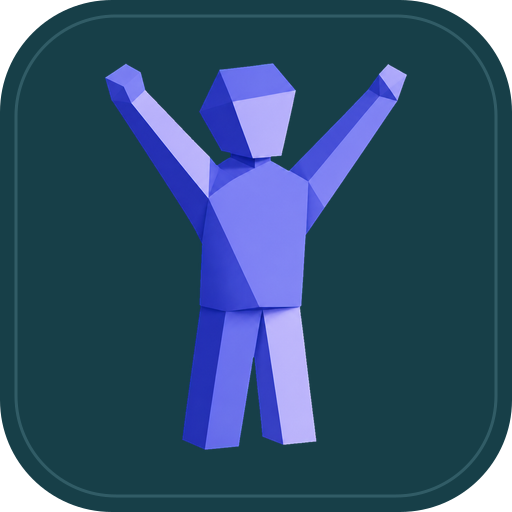
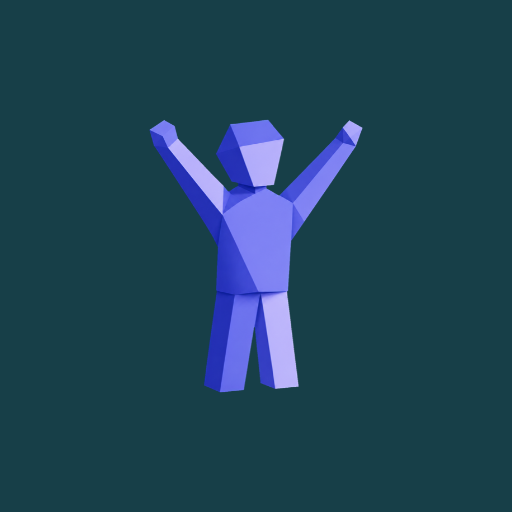
fix(brand): 검증 지적 반영 — 앱 아이콘 풀블리드, LCP·이미지 크기, theme-color
- apple-icon/매니페스트 아이콘을 모서리까지 불투명한 풀블리드로 재생성
  (투명 라운드 모서리는 iOS 가 검정 합성 후 마스크를 덧씌워 잔상이 남고,
   안드로이드는 흰 판 위에 올려 이중 라운딩이 된다)
- 매니페스트: 192 추가(Lighthouse installable), maskable purpose, id·scope
- 헤더 로고 priority 제거 — 루트 레이아웃이라 전 페이지에서 히어로 LCP 앞을 막았다
- next/image width/height 를 원본(202x256) 대신 실제 렌더 크기로 (불필요한 변환 제거)
- layout: theme-color meta 추가 (manifest theme_color 는 설치된 PWA 전용)
- LocalBusiness.image 를 OG 배너 → 실제 스튜디오 사진으로
- OG_IMAGE 에 버전 쿼리 — 안 붙이면 카톡·페북이 옛 썸네일을 계속 보여준다
- admin 로그인의 구 브랜드명 'CES 블로그 관리자' + 이모지 → 마크·정상 명칭
- 파일명이 전부 어긋난 public/brand/README.md 삭제 (docs/brand-assets.md 로 일원화)

diff --git a/src/app/manifest.ts b/src/app/manifest.ts
@@ -13,16 +13,23 @@ export default function manifest(): MetadataRoute.Manifest {
     name: SITE_NAME,
     short_name: SITE_SHORT,
     description: SITE_DESCRIPTION,
+    id: "/",
     start_url: "/",
+    scope: "/",
     display: "standalone",
     theme_color: "#1E22B2",
     background_color: "#173F48",
     lang: "ko-KR",
     // app/icon.png 은 Next 가 해시 쿼리를 붙여 링크하므로, 매니페스트에서는
-    // 경로가 고정된 public/brand 사본을 가리킨다 (같은 이미지).
+    // 경로가 고정된 public/brand 사본을 가리킨다.
+    // 192·512 두 벌은 Lighthouse installable 요건이고, 두 아이콘 모두
+    // 모서리까지 불투명하게 채운 풀블리드라 maskable 로도 그대로 쓸 수 있다
+    // (인형이 캔버스 56% 크기라 안전영역 안에 들어온다).
     icons: [
+      { src: "/brand/pe-studio-icon-192.png", sizes: "192x192", type: "image/png", purpose: "any" },
       { src: "/brand/pe-studio-icon-512.png", sizes: "512x512", type: "image/png", purpose: "any" },
-      { src: "/brand/pe-studio-icon-180.png", sizes: "180x180", type: "image/png" },
+      { src: "/brand/pe-studio-icon-192.png", sizes: "192x192", type: "image/png", purpose: "maskable" },
+      { src: "/brand/pe-studio-icon-512.png", sizes: "512x512", type: "image/png", purpose: "maskable" },
     ],
   };
 }

diff --git a/src/app/layout.tsx b/src/app/layout.tsx
@@ -1,4 +1,4 @@
-import type { Metadata } from "next";
+import type { Metadata, Viewport } from "next";
 import { Geist } from "next/font/google";
 import localFont from "next/font/local";
 import "./globals.css";
@@ -23,6 +23,14 @@ const pretendard = localFont({
   display: "swap",
   weight: "45 920",
 });
+
+/**
+ * manifest 의 theme_color 는 설치된 PWA 에만 적용된다.
+ * 크롬 안드로이드 브라우저의 주소창 색은 <meta name="theme-color"> 를 본다.
+ */
+export const viewport: Viewport = {
+  themeColor: "#1E22B2",
+};
 
 export const metadata: Metadata = {
   metadataBase: new URL(SITE_URL),
@@ -192,7 +200,8 @@ function LocalBusinessJsonLd() {
     alternateName: COMPANY.shortName,
     description: SITE_DESCRIPTION,
     url: SITE_URL,
-    image: `${SITE_URL}/opengraph-image`,
+    // LocalBusiness.image 는 사업장을 보여주는 사진이어야 한다 (홍보 배너 아님).
+    image: `${SITE_URL}/home/studio-1.jpg`,
     ...(COMPANY.phone ? { telephone: COMPANY.phone } : {}),
     email: COMPANY.email,
     priceRange: "₩₩",

diff --git a/src/app/admin/login/page.tsx b/src/app/admin/login/page.tsx
@@ -1,15 +1,23 @@
 "use client";
 
 import { signIn } from "next-auth/react";
+import Image from "next/image";
 
 export default function LoginPage() {
   return (
     <div className="min-h-screen flex items-center justify-center bg-slate-900">
       <div className="bg-white rounded-2xl p-10 shadow-xl text-center max-w-sm w-full mx-4">
-        <div className="text-4xl mb-4">✏</div>
-        <h1 className="text-2xl font-bold text-slate-900 mb-2">CES 블로그 관리자</h1>
+        <Image
+          src="/brand/pe-studio-mark.png"
+          alt=""
+          width={44}
+          height={56}
+          className="mx-auto mb-4 h-14 w-auto"
+          aria-hidden
+        />
+        <h1 className="text-2xl font-bold text-slate-900 mb-2">PE Studio 관리자</h1>
         <p className="text-slate-500 text-sm mb-8">
-          관리자 계정으로 로그인하여 블로그를 관리하세요.
+          관리자 계정으로 로그인해 주세요.
         </p>
         <button
           onClick={() => signIn("google", { callbackUrl: "/admin" })}

diff --git a/src/components/Header.tsx b/src/components/Header.tsx
@@ -29,12 +29,14 @@ export default function Header() {
           <Link href="/" className="flex items-center gap-2.5" aria-label="Paper Engineering Studio 홈으로 이동">
             {/* 만세 인형 마크 — 밝은 배경이라 별도 판 없이 그대로 얹는다.
                 글자는 이미지가 아니라 아래 HTML 텍스트라 어느 폭에서도 선명하다. */}
+            {/* width/height 는 원본이 아니라 실제 렌더 크기(h-9 = 36px)로 준다 —
+                원본 202×256 을 주면 next/image 가 256·640 변환을 요청해 히어로 이미지와
+                대역폭을 다툰다. priority 도 같은 이유로 쓰지 않는다(LCP 는 히어로 쪽). */}
             <Image
               src="/brand/pe-studio-mark.png"
               alt=""
-              width={202}
-              height={256}
-              priority
+              width={28}
+              height={36}
               className="h-9 w-auto flex-shrink-0"
               aria-hidden
             />

diff --git a/src/lib/site.ts b/src/lib/site.ts
@@ -171,8 +171,15 @@ export const DOWNLOAD = {
  *
  * 그래서 openGraph 를 선언하는 페이지는 반드시 `images: [OG_IMAGE]` 를 함께 넣는다.
  */
+/**
+ * OG 이미지 버전. 이미지 내용이 바뀌어도 URL 이 그대로면 카카오톡·페이스북·네이버가
+ * 캐시된 옛 썸네일을 계속 보여준다. 디자인을 바꿀 때마다 이 값을 올려 URL 을 갈아 준다.
+ * (2 = 2026-08 만세 인형 로고 적용)
+ */
+const OG_VERSION = "2";
+
 export const OG_IMAGE = {
-  url: `${SITE_URL}/opengraph-image`,
+  url: `${SITE_URL}/opengraph-image?v=${OG_VERSION}`,
   width: 1200,
   height: 630,
   alt: `${SITE_NAME} — ${BRAND_TAGLINE_KR}`,

diff --git a/src/components/Footer.tsx b/src/components/Footer.tsx
@@ -16,8 +16,8 @@ export default function Footer() {
                 <Image
                   src="/brand/pe-studio-mark.png"
                   alt=""
-                  width={202}
-                  height={256}
+                  width={22}
+                  height={28}
                   className="h-full w-auto"
                 />
               </div>

diff --git a/src/components/admin/AdminShell.tsx b/src/components/admin/AdminShell.tsx
@@ -181,8 +181,8 @@ function SidebarContent({ onNavClick }: { onNavClick?: () => void }) {
           <Image
             src="/brand/pe-studio-mark.png"
             alt=""
-            width={202}
-            height={256}
+            width={25}
+            height={32}
             className="h-8 w-auto flex-shrink-0"
             aria-hidden
           />

diff --git a/src/app/artist/login/page.tsx b/src/app/artist/login/page.tsx
@@ -34,8 +34,8 @@ export default async function ArtistLoginPage({
           <Image
             src="/brand/pe-studio-mark.png"
             alt=""
-            width={202}
-            height={256}
+            width={44}
+            height={56}
             className="mx-auto mb-4 h-14 w-auto"
             aria-hidden
           />

diff --git a/docs/brand-assets.md b/docs/brand-assets.md
@@ -24,8 +24,8 @@
 |---|---|---|
 | `pe-studio-mark.png` | 202×256 | **화면에 실제로 쓰는 마크** — 헤더·푸터·어드민·로그인 |
 | `pe-studio-mark-512.png` | 404×512 | OG 이미지 생성용 (data URI 로 인라인) |
-| `pe-studio-icon-512.png` | 512×512 | PWA 매니페스트 아이콘 (Blueprint Teal 라운드 배경) |
-| `pe-studio-icon-180.png` | 180×180 | 매니페스트 보조 아이콘 |
+| `pe-studio-icon-512.png` | 512×512 | PWA 아이콘 — **모서리까지 불투명 풀블리드** |
+| `pe-studio-icon-192.png` | 192×192 | PWA 아이콘 (Lighthouse installable 요건) |
 | `pe-studio-lockup.png` | 1200×1120 | 세로형 — 제안서·명함·패키지 (보관용, 웹 미사용) |
 | `pe-studio-lockup-reversed.png` | 1200×1120 | 세로형 어두운 배경용 (보관용) |
 | `pe-studio-horizontal.png` | 1800×700 | 가로형 (보관용) |
@@ -51,6 +51,25 @@
 - 마크는 장식이므로 `alt=""` + `aria-hidden`. 링크 이름은 감싸는 `<Link>` 의
   `aria-label` 이나 옆의 텍스트가 담당한다.
 - 작은 크기에서는 `PAPER ENGINEERING` 부제를 생략한다 (헤더가 `lg` 미만에서 숨김).
+- `next/image` 의 `width`/`height` 는 원본 크기가 아니라 **실제 렌더 크기**를 준다.
+  원본(202×256)을 주면 필요보다 큰 변환본을 내려받는다.
+- 헤더 로고에 `priority` 를 붙이지 않는다. 루트 레이아웃이라 전 페이지에서 preload 가
+  걸리고, 진짜 LCP 후보(히어로 이미지)보다 앞서 나가 손해다.
+
+## 앱 아이콘 규칙 (중요)
+
+`apple-icon.png` 와 매니페스트 아이콘은 **모서리까지 불투명하게 채운 정사각형**이어야 한다.
+투명한 라운드 모서리를 그대로 넣으면 iOS 는 투명 영역을 검정으로 합성한 뒤 자기 마스크를
+다시 씌워 검은 잔상이 남고, 안드로이드는 흰 판 위에 올려 "둥근 아이콘 안의 둥근 아이콘"이 된다.
+
+현재 아이콘은 `#173F48` 풀블리드 배경에 인형을 캔버스의 **56% 높이**로 배치했다.
+maskable 안전영역(중앙 80%) 안에 들어오므로 `purpose: "any"` 와 `"maskable"` 양쪽에 같은
+파일을 쓴다. 다시 만들어야 하면 `pe-studio-mark-512.png` 를 같은 비율로 합성하면 된다.
+
+## OG 이미지 캐시
+
+`src/lib/site.ts` 의 `OG_VERSION` 을 올려야 카카오톡·페이스북·네이버가 새 썸네일을 가져온다.
+이미지 내용만 바꾸고 URL 이 그대로면 캐시된 옛 배너가 계속 노출된다.
 
 ## 새 크기가 필요할 때
 
